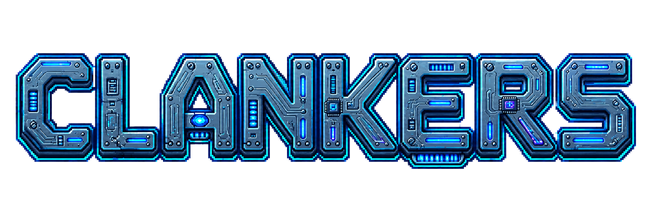
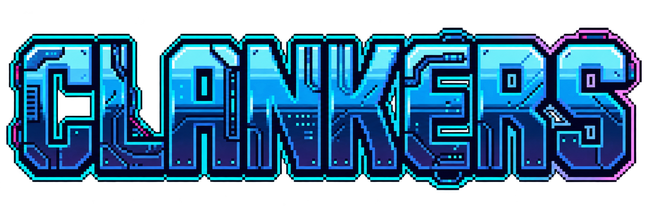
Troca a imagem do subtítulo CLANKERS
Atualiza o menu, a tela de carregamento, o logo do README e a imagem de
compartilhamento. O subtítulo desce para manter a folga em relação ao
título, já que as letras novas são mais altas.

diff --git a/src/game/scenes/main-menu/MainMenu.ts b/src/game/scenes/main-menu/MainMenu.ts
@@ -116,7 +116,7 @@ export class MainMenu extends Scene
                 this.title = this.add.image(MainMenu.width / 2, 220, 'main-menu-title').setDepth(1);
             }
             if(this.elapsedInScene > 3500 && !this.subtitle) {
-                this.subtitle = this.add.image(MainMenu.width / 2, 450, 'main-menu-subtitle').setDepth(2);
+                this.subtitle = this.add.image(MainMenu.width / 2, 473, 'main-menu-subtitle').setDepth(2);
             }
             if(this.elapsedInScene > 4000 && !this.playButton) {
                 this.playButton = this.add.image(MainMenu.width / 2, 800, 'play-button').setScale(MainMenu.buttonScale);

diff --git a/src/game/scenes/preloader/Preloader.ts b/src/game/scenes/preloader/Preloader.ts
@@ -11,8 +11,8 @@ import { loadAssets } from './assetLoader/assetLoaderService';
 export class Preloader extends Scene
 {
     private static readonly centerX = 960;
-    private static readonly titleY = 330;
-    private static readonly subtitleOffsetY = 230; // Mesma distancia entre titulo e subtitulo usada no menu
+    private static readonly titleY = 300;
+    private static readonly subtitleOffsetY = 253; // Mesma distancia entre titulo e subtitulo usada no menu
     private static readonly barY = 700;
     private static readonly barWidth = 900;
     private static readonly barHeight = 24;
